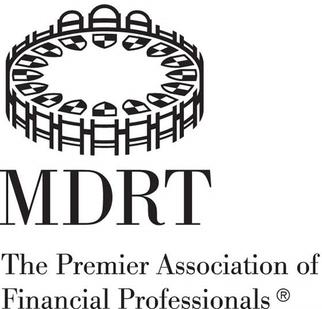
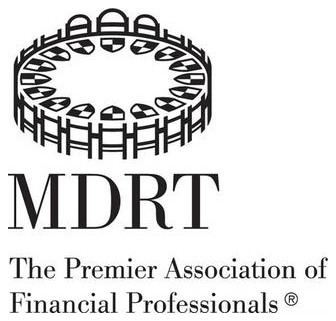
MDRT 로고 가운데 정렬(내용 경계 크롭)

Changed region(s): [[0.0, 0.0, 0.6522, 0.7282], [0.0, 0.7864, 0.9938, 1.0], [0.6522, 0.5825, 0.6832, 0.6117]]

diff --git a/index.html b/index.html
@@ -69,7 +69,7 @@ img{display:block;max-width:100%;height:auto}a{color:inherit;text-decoration:non
 @media(max-width:560px){
   .badges{display:grid;gap:10px;position:absolute;left:clamp(22px,4.5vw,34px);bottom:22px;z-index:2;width:38%;max-width:150px}
   .badges .md{width:118px;background:#fff;border-radius:18px;padding:10px 12px 8px;box-shadow:0 12px 28px -10px rgba(0,0,0,.5)}
-  .badges .md img{width:100%;height:auto}
+  .badges .md img{display:block;width:84%;height:auto;margin:0 auto}
   .badges .md small{display:block;text-align:center;font-size:10px;font-weight:800;color:var(--navy);letter-spacing:.12em;margin-top:4px}
   .badges .bx{background:rgba(255,255,255,.92);color:var(--navy);border-radius:14px;padding:9px 11px;font-size:11.5px;font-weight:800;line-height:1.3;box-shadow:0 10px 24px -12px rgba(0,0,0,.45)}
   .badges .bx small{display:block;font-size:10px;font-weight:600;color:var(--ink-2);margin-top:2px}
@@ -133,7 +133,7 @@ table.cmp td.me{background:var(--sky-soft);color:var(--sky-ink);font-weight:700}
 /* 인증 */
 .cert{display:flex;gap:16px;align-items:center;margin-top:14px;background:linear-gradient(135deg,#FFF6DC,#FFFFFF);border:1px solid #F3E2A8;border-radius:18px;padding:16px}
 .cert .mdrt{flex:0 0 auto;width:110px;background:#fff;border-radius:16px;padding:8px;border:1px solid var(--line)}
-.cert .mdrt img{width:100%;height:auto}
+.cert .mdrt img{display:block;width:100%;height:auto;margin:0 auto}
 .cert b{display:block;font-size:16px}.cert span{font-size:13.5px;color:var(--ink-2)}
 
 details{border-top:1px solid var(--line)}details:first-of-type{border-top:none}
@@ -184,7 +184,7 @@ footer{max-width:740px;margin:0 auto;padding:0 18px 20px;font-size:11.5px;color:
     </div>
     <img class="ph" src="img/kg-cut.png" alt="구경순 팀장" width="711" height="1385">
     <div class="badges" aria-hidden="true">
-      <div class="md"><img src="img/mdrt-mark.png" alt="MDRT" width="322" height="230"><small>MEMBER</small></div>
+      <div class="md"><img src="img/mdrt-mark.png" alt="MDRT"><small>MEMBER</small></div>
       <div class="bx g">개인 · 법인<br>종합재무설계<small>자문위원단 6직군</small></div>
       <div class="bx"><span class="pa">PRIME ASSET</span><small>프라임에셋 소속</small></div>
     </div>
@@ -278,7 +278,7 @@ footer{max-width:740px;margin:0 auto;padding:0 18px 20px;font-size:11.5px;color:
   <section class="card rv">
     <h2>인증 · 소속</h2>
     <div class="cert">
-      <div class="mdrt"><img src="img/mdrt.png" alt="MDRT 로고" width="322" height="309"></div>
+      <div class="mdrt"><img src="img/mdrt.png" alt="MDRT 로고"></div>
       <div><b>MDRT 회원 · 프라임에셋</b><span>MDRT(백만달러 원탁회의)는 전 세계 상위 설계사만 가입하는 국제 협회입니다. 생명 · 손해 · 화재보험 비교분석, 달러보험 판매 전문.</span></div>
     </div>
   </section>
